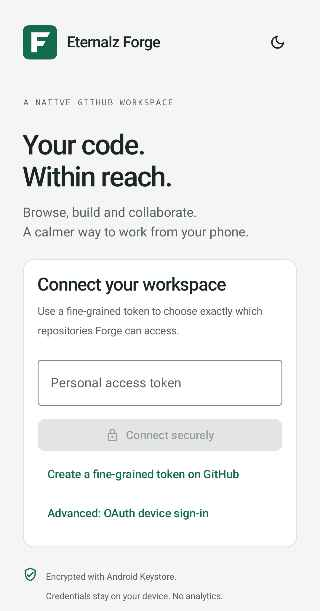
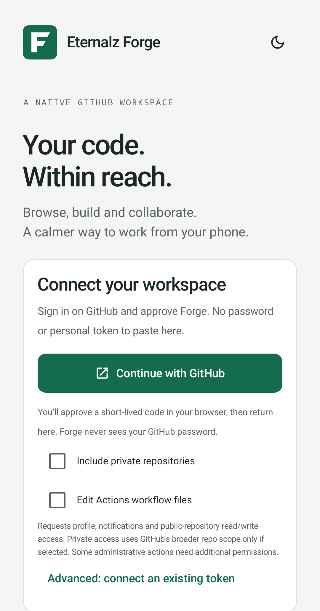
Document owner-only OAuth registration and verified sign-in UI

Changed region(s): [[0.0625, 0.4975, 0.9062, 0.9951]]

diff --git a/docs/implementation-status.md b/docs/implementation-status.md
@@ -9,16 +9,16 @@ mock server, seeded account data, analytics SDK or hosted token proxy.
 **This is not yet a production release.** The requested scope is substantial. The
 API paths and user flows below are implemented in source. **Android compilation,
 lint, JVM tests and debug APK assembly passed in GitHub Actions** for commit
-`bf6c91ea64aeda55496a870a994419005fdd9bb9`. Installation and five UI/security tests passed on an Android 11/API 30 Pixel 4
+`563b12b78135489f3dba9cbb24e9f37ad640fb81`. Installation and six UI/security tests passed on an Android 11/API 30 Pixel 4
 emulator. Authenticated end-to-end behavior remains unverified. Do not confuse build/source
 coverage with tested production functionality.
 
 ## Verified build and download
 
-- [Successful Android CI run](https://github.com/WaquarShaikh5555/eternalz-forge/actions/runs/44905175855)
-- [Debug APK artifact](https://github.com/WaquarShaikh5555/eternalz-forge/actions/runs/44905175855/artifacts/14707936467)
-- Artifact: `eternalz-forge-debug`, ID `14707936467`, archive size 16,774,341 bytes.
-- Artifact archive digest: `sha256:ea6eb46acb17e90d1148b020fcb50393a8fb17a55829f8738856fd6b17e252ed`
+- [Successful Android CI run](https://github.com/WaquarShaikh5555/eternalz-forge/actions/runs/44910837997)
+- [Debug APK artifact](https://github.com/WaquarShaikh5555/eternalz-forge/actions/runs/44910837997/artifacts/14709394248)
+- Artifact: `eternalz-forge-debug`, ID `14709394248`, archive size 16,783,589 bytes.
+- Artifact archive digest: `sha256:12bb8dbaaadc7b0ea5f2b2aa7654f6fed428447107e9615dfba9789e3e5b8539`
   (archive digest, not an APK signing-certificate fingerprint).
 - Download requires GitHub access to this repository. Extract and install
   `app-debug.apk`; artifact retention is seven days. It is debug-signed.
@@ -29,7 +29,7 @@ coverage with tested production functionality.
 
 | Area | Implemented source flows | Boundaries |
 | --- | --- | --- |
-| Authentication | GitHub OAuth device flow, cancellation/expiry/poll slow-down; validate a user-supplied token through `/user` | Requires your registered OAuth app's public client ID and enabled device flow. No embedded client secret. First-party GitHub App registration/installation and expiring-token refresh are not implemented. |
+| Authentication | Primary Continue with GitHub device flow, build-configured public client ID, optional private/workflow scopes, cancellation/expiry/poll slow-down; advanced manual token fallback | Requires the product owner's one-time OAuth registration and enabled device flow; normal users never enter client IDs or create tokens. See [setup](github-sign-in.md). No embedded client secret. First-party GitHub App registration/installation and expiring-token refresh are not implemented. |
 | Accounts | Keystore AES-GCM encrypted atomic vault, account switching, per-account drafts/recents/pins, disconnect; public profile/organizations, follower/following lists, read-only gists, GraphQL contribution calendar | OAuth account revocation remains in GitHub settings. Lists of people/gists/orgs show at most 100. No gist editing or organization administration. |
 | Dashboard | Real repository list, recent GitHub events, local recent/pinned repositories, staged-work shortcut, assigned-issue/review-request/created-PR search shortcuts, compact/expanded dashboard | Not an aggregate analytics dashboard. Events use GitHub's activity API and can be delayed. No fabricated counters. |
 | Repositories | Owned/collaborated/fork/private/starred filters, loaded-page text filtering, local sort, list/grid, pagination, create, fork, edit description/name/visibility/archive, topics, star/unstar, delete | Collaborated means returned repositories not owned by the signed-in login, including organization repositories. Filters/sort apply to loaded pages; global repository search is separate. No teams, webhooks or branch-protection editor. |
@@ -59,6 +59,14 @@ coverage with tested production functionality.
 
 ## Native tests and CI results
 
+Version 0.3.0 adds five JVM authorization-policy tests and a sixth emulator test
+for the token-free default sign-in UI. All pass in the linked CI run. Successful
+live OAuth authorization is **not** verified: no registered product client ID was
+supplied in this session. GitHub owner setup is still required before distributing
+a login-ready build. Debug owner-setup messaging and release configuration checks
+do not replace that registration.
+
+
 - **Passed in CI:** JVM tests for path/ref validation and bounded review diffs.
 - **Passed in CI:** fake-transport commit tests for moved-head/no writes, file modes/deletion,
   non-force updates and concurrent-push rejection.
@@ -84,7 +92,7 @@ coverage with tested production functionality.
 3. Exercise real public/private/organization repository flows with least-privilege
    test accounts. Test permission denials, SSO, rate limits, timeouts after writes,
    branch protection, archived/empty repos and simultaneous pushes.
-4. Extend the five passing emulator tests to authenticated journeys, additional API
+4. Extend the six passing emulator tests to authenticated journeys, additional API
    levels and tablets; complete accessibility/RTL/font-scale checks and
    release/profileable Macrobenchmarks. The three screenshot cases are an initial
    visual regression net, not an exhaustive screenshot suite.

diff --git a/README.md b/README.md
@@ -7,10 +7,18 @@ interface, encrypted multi-account storage, real GitHub API operations, a mobile
 code editor and optimistic, non-force multi-file commits. No WebView. No mock data.
 
 > **Verified development build, not a production release.** Android lint, JVM
-> tests and debug APK assembly passed in GitHub Actions. Five Android emulator UI/security tests also pass. Authenticated
+> tests and debug APK assembly passed in GitHub Actions. Six Android emulator UI/security tests also pass. Authenticated
 > end-to-end behavior still needs testing. Read the
 > [implementation status](docs/implementation-status.md) for exact coverage,
 > missing flows and verification results.
+
+## GitHub sign-in — 0.3.0
+
+Token creation is no longer the onboarding path. **Continue with GitHub** now
+uses device authorization with a build-configured public client ID. No client
+secret is embedded. The app owner must complete the
+[one-time registration](docs/github-sign-in.md); without that ID a debug build
+shows an honest owner-setup message rather than a fake working sign-in.
 
 ## Visual revision — 0.2.0
 
@@ -21,8 +29,8 @@ Dark mode remains optional; existing explicit appearance preferences are respect
 
 ## Install the development build
 
-[Download the debug APK artifact](https://github.com/WaquarShaikh5555/eternalz-forge/actions/runs/44905175855/artifacts/14707936467)
-from the [successful CI run](https://github.com/WaquarShaikh5555/eternalz-forge/actions/runs/44905175855).
+[Download the debug APK artifact](https://github.com/WaquarShaikh5555/eternalz-forge/actions/runs/44910837997/artifacts/14709394248)
+from the [successful CI run](https://github.com/WaquarShaikh5555/eternalz-forge/actions/runs/44910837997).
 Sign in to GitHub, download/extract `eternalz-forge-debug.zip`, then install
 `app-debug.apk` on an Android 8+ device. Android may ask you to allow installation
 from that browser/file manager. This is a debug-signed test build, not a Play Store

diff --git a/docs/design-system.md b/docs/design-system.md
@@ -71,3 +71,16 @@ on an ephemeral runner, uses KVM, and executes our fixed test script. No untrust
 repository/user input is interpolated into action configuration. The job has only
 read access to repository contents and no production credentials. It does not
 install an emulator in this restricted sandbox.
+
+
+## 0.3.0 sign-in revision
+
+The sign-in panel now starts with **Continue with GitHub**, not a personal-token
+field. Private repositories and editing Actions workflow files are explicit scope
+opt-ins. The manual token path is labeled Advanced, and the app owner configures
+the public client ID at build time instead of making each user supply one.
+
+The updated [sign-in capture](screenshots/sign-in-light.jpg) was inspected from
+[CI run 44910837997](https://github.com/WaquarShaikh5555/eternalz-forge/actions/runs/44910837997).
+All six emulator UI/security tests passed. Owner registration and live OAuth
+approval are separate from these fixture/UI tests; see [GitHub setup](github-sign-in.md).

diff --git a/docs/github-sign-in.md b/docs/github-sign-in.md
@@ -89,3 +89,12 @@ Automated tests cover scope selection, client-ID validation, slow-down handling,
 owner/setup error messages and the token-free default sign-in UI. A real successful
 GitHub approval still requires the owner registration and an interactive test user.
 Neither a public client ID nor a successful APK build proves an end-to-end login.
+
+
+## Build/UI verification — 0.3.0
+
+[CI run 44910837997](https://github.com/WaquarShaikh5555/eternalz-forge/actions/runs/44910837997)
+passed Android lint, JVM tests, debug APK assembly and all six emulator UI/security
+tests, including the default sign-in/owner-setup test. The short-code grant has
+not been exercised against a real registered product client in this session.
+Providing a public Client ID and enabling device flow is still the owner's next step.
